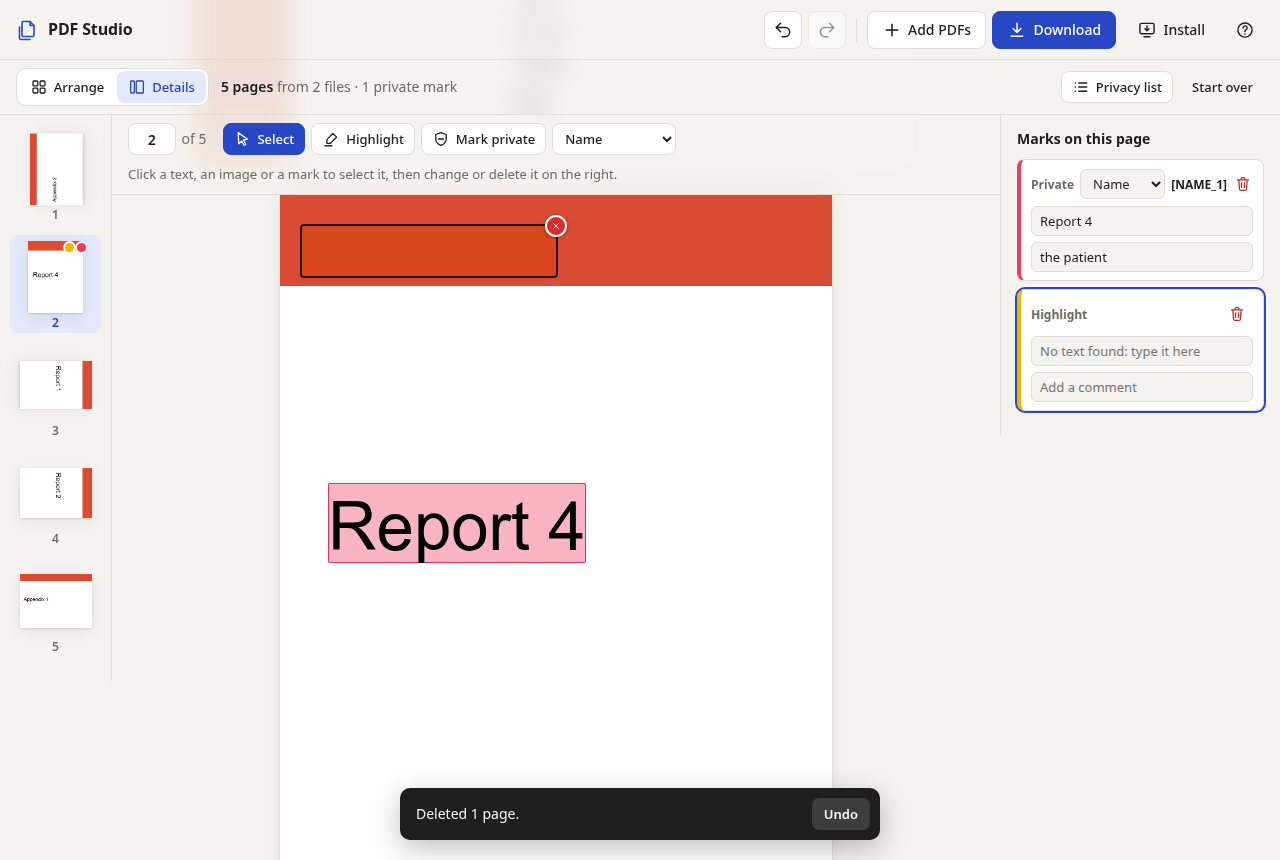
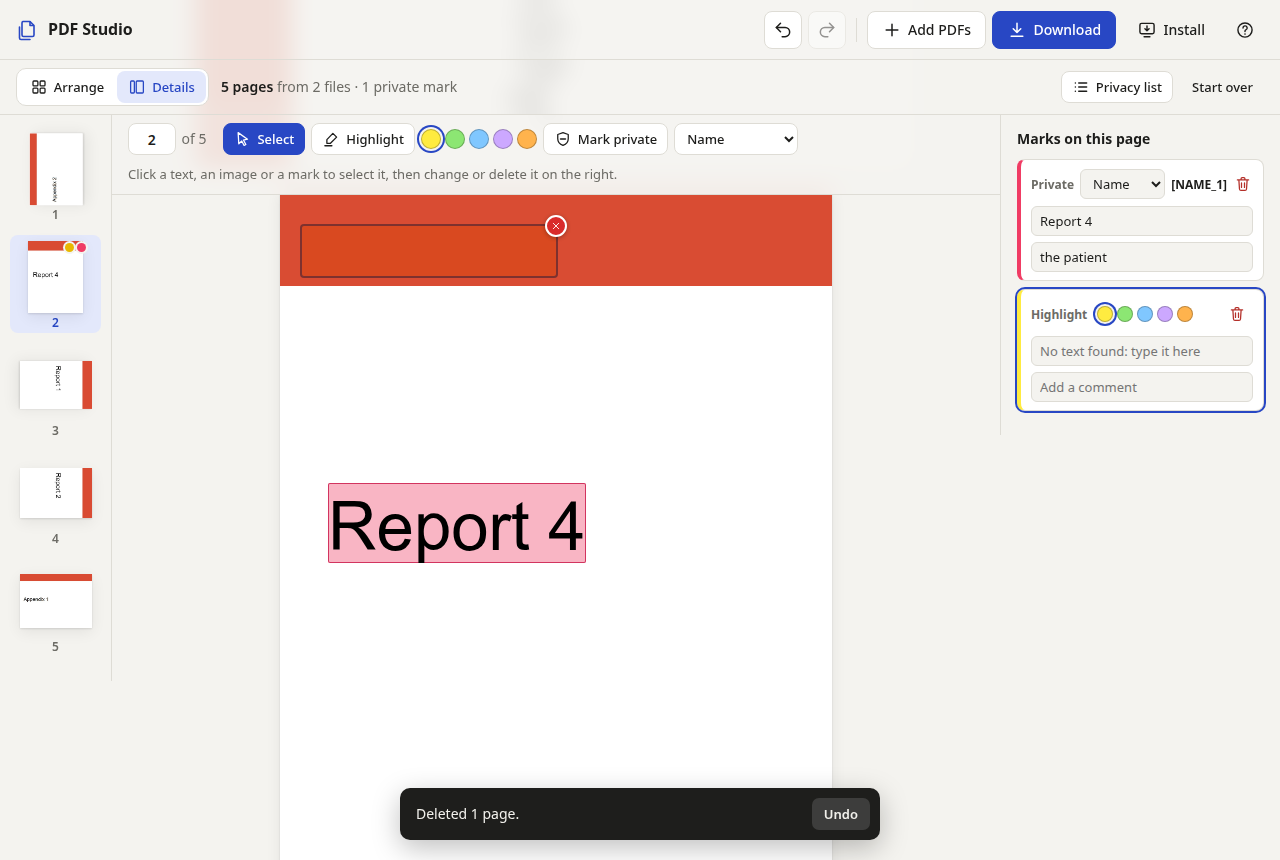
Version 0.2.0; highlight colours
- The app shows its version at the bottom of the keyboard shortcuts
  dialog (src/version.js, checked against package.json by a test).
- Highlights can be yellow, green, blue, purple or orange: pick the
  colour for the next highlight in the bar, change it per highlight in
  the list. The colour is written to the annotation's /C.

Changed region(s): [[0.3125, 0.1512, 0.5625, 0.1814], [0.8438, 0.3326, 0.9375, 0.393], [0.4062, 0.3023, 0.4375, 0.3326]]

diff --git a/src/app.js b/src/app.js
@@ -1,10 +1,11 @@
 // The editor: page grid, selection, drag and drop, keyboard, undo, upload and download.
 
-import { CATEGORIES, categoryOf, countPrivate, placeholders, privacyReport, textInRect } from "./annotations.js";
+import { CATEGORIES, HIGHLIGHT_COLORS, categoryOf, colorOf, countPrivate, placeholders, privacyReport, textInRect } from "./annotations.js";
 import {
   History, addMark, editText, erase, insert, move, newMarkId, normalizeRotation, pagesOf, remove, removeMark, rotate, updateMark,
 } from "./model.js";
 import { setupInstall } from "./install.js";
+import { VERSION } from "./version.js";
 import { PreviewRenderer, drawPage, openPreviewDocument, pageText } from "./thumbnails.js";
 import { PdfWorker } from "./worker-client.js";
 
@@ -69,6 +70,7 @@ const state = {
   view: "arrange", // "arrange" | "details"
   detailId: null, // the page shown in the details view
   tool: "select", // "select" | "highlight" | "private"
+  highlightColor: HIGHLIGHT_COLORS[0].id, // for the next highlight
   picked: null, // objects picked with the select tool: { pageId, ids }
   markId: null, // the mark picked in the details view
 };
@@ -309,6 +311,29 @@ async function loadPreview(card) {
 // ---------------------------------------------------------------------------------------------
 // Marks on thumbnails
 
+const cssColor = (id) => `rgb(${colorOf(id).rgb.map((n) => Math.round(n * 255)).join(" ")})`;
+
+/** A row of colour buttons; `current` is pressed, `choose(id)` is called on a click. */
+function swatches(current, choose, label) {
+  const group = document.createElement("div");
+  group.className = "swatches";
+  group.setAttribute("role", "group");
+  group.setAttribute("aria-label", label);
+  for (const color of HIGHLIGHT_COLORS) {
+    const button = document.createElement("button");
+    button.type = "button";
+    button.className = "swatch";
+    button.title = color.label;
+    button.setAttribute("aria-label", color.label);
+    button.setAttribute("aria-pressed", String(color.id === colorOf(current).id));
+    button.dataset.color = color.id;
+    button.style.setProperty("--mark", cssColor(color.id));
+    button.addEventListener("click", () => choose(color.id));
+    group.append(button);
+  }
+  return group;
+}
+
 function renderMarks(container, marks = [], currentId = null, withDelete = false) {
   const current = withDelete ? marks.find((mark) => mark.id === currentId) : null;
   const extras = [];
@@ -330,6 +355,7 @@ function renderMarks(container, marks = [], currentId = null, withDelete = false
       mark.rects.map(([u0, v0, u1, v1]) => {
         const box = document.createElement("div");
         box.className = `mark ${mark.kind}${mark.id === currentId ? " is-current" : ""}`;
+        if (mark.kind === "highlight") box.style.setProperty("--mark", cssColor(mark.color));
         box.dataset.mark = mark.id;
         box.style.cssText = `left:${u0 * 100}%;top:${v0 * 100}%;width:${(u1 - u0) * 100}%;height:${(v1 - v0) * 100}%`;
         return box;
@@ -1223,6 +1249,12 @@ function renderMarkList(page) {
       const label = document.createElement("span");
       label.textContent = mark.kind === "private" ? "Private" : "Highlight";
       head.append(label);
+      if (mark.kind === "highlight") {
+        row.style.setProperty("--mark", cssColor(mark.color));
+        head.append(
+          swatches(mark.color, (color) => commit(updateMark(pages(), page.id, mark.id, { color }), { animate: false }), "Colour of this highlight"),
+        );
+      }
       if (mark.kind === "private") {
         const select = document.createElement("select");
         select.setAttribute("aria-label", "Category");
@@ -1750,7 +1782,9 @@ async function addMarkFromRect(pageId, rect) {
   if (!page || !kind) return;
   const { text, rects } = textInRect(await textOf(page), rect);
   if (indexOf(page.id) < 0) return; // deleted while the text was read
-  const mark = { id: newMarkId(), kind, category: kind === "private" ? ui.category.value : undefined, text, rects };
+  const mark = { id: newMarkId(), kind, text, rects };
+  if (kind === "private") mark.category = ui.category.value;
+  else mark.color = state.highlightColor;
   state.detailId = page.id;
   state.picked = null;
   commit(addMark(pages(), page.id, mark), { animate: false });
@@ -1863,6 +1897,31 @@ ui.clearAll.addEventListener("click", async () => {
   render({ animate: false });
   worker.call("reset");
 });
+
+// Colour of the next highlight, remembered between visits.
+const COLOR_KEY = "pdf-studio:highlight-color";
+try {
+  state.highlightColor = colorOf(localStorage.getItem(COLOR_KEY)).id;
+} catch {}
+function renderToolColors() {
+  $("highlight-colors").replaceChildren(
+    ...swatches(
+      state.highlightColor,
+      (color) => {
+        state.highlightColor = color;
+        try {
+          localStorage.setItem(COLOR_KEY, color);
+        } catch {}
+        renderToolColors();
+        if (state.tool !== "highlight") setTool("highlight");
+      },
+      "",
+    ).children,
+  );
+}
+renderToolColors();
+
+for (const element of document.querySelectorAll("[data-version]")) element.textContent = `Version ${VERSION}`;
 
 const SIZE_KEY = "pdf-studio:thumb-size";
 function applyThumbSize(value) {

diff --git a/src/styles.css b/src/styles.css
@@ -488,11 +488,12 @@ body[data-view="details"] #size-control { display: none; }
 .mark {
   position: absolute;
   border-radius: 2px;
-  background: rgb(255 214 0 / 0.42);
+  background: var(--mark, rgb(255 235 64));
+  opacity: 0.5;
   mix-blend-mode: multiply;
 }
-.mark.private { background: rgb(240 60 100 / 0.38); box-shadow: inset 0 0 0 1px rgb(200 20 70 / 0.8); }
-.mark.is-current { box-shadow: 0 0 0 2px var(--accent); mix-blend-mode: normal; }
+.mark.private { opacity: 1; background: rgb(240 60 100 / 0.38); box-shadow: inset 0 0 0 1px rgb(200 20 70 / 0.8); }
+.mark.is-current { box-shadow: 0 0 0 2px var(--accent); }
 .page-flags { position: absolute; top: -4px; right: -4px; display: flex; gap: 3px; pointer-events: none; }
 .page-flags span {
   display: inline-flex; align-items: center; gap: 3px;
@@ -707,3 +708,19 @@ body.dragging .film-delete { opacity: 0; }
 .menu button:hover, .menu button:focus-visible { background: var(--surface-2); outline: none; }
 .menu button.danger { color: var(--danger); }
 .menu button.danger:hover, .menu button.danger:focus-visible { background: var(--danger-soft); }
+
+/* Highlight colours */
+
+.swatches { display: flex; align-items: center; gap: 4px; }
+.swatch {
+  width: 20px; height: 20px; padding: 0;
+  border: 1px solid rgb(0 0 0 / 0.25); border-radius: 50%;
+  background: var(--mark);
+  cursor: pointer;
+}
+.swatch[aria-pressed="true"] { box-shadow: 0 0 0 2px var(--bg), 0 0 0 4px var(--accent); }
+.swatch:focus-visible { outline: 2px solid var(--accent); outline-offset: 3px; }
+.mark-row .swatches { margin-left: 4px; }
+.mark-row .swatch { width: 16px; height: 16px; }
+.mark-row:not(.private) { border-left-color: var(--mark, #e8b800); }
+.hint.version { margin-top: 8px; font-variant-numeric: tabular-nums; }

diff --git a/index.html b/index.html
@@ -141,6 +141,7 @@
             <button type="button" class="button small tool" id="tool-highlight" aria-pressed="false" title="Highlight: drag over text (H)">
               <svg aria-hidden="true"><use href="#i-highlight"/></svg><span class="label">Highlight</span>
             </button>
+            <div class="swatches" id="highlight-colors" role="group" aria-label="Colour of the next highlight"></div>
             <button type="button" class="button small tool private" id="tool-private" aria-pressed="false" title="Mark as private: drag over a name or other personal data (P)">
               <svg aria-hidden="true"><use href="#i-shield"/></svg><span class="label">Mark private</span>
             </button>
@@ -230,6 +231,7 @@
         <dt>Details: <kbd>R</kbd> / <kbd>Shift</kbd> + <kbd>R</kbd></dt><dd>Rotate the page right / left</dd>
       </dl>
       <p class="hint">In the Details view, drag over text with the Highlight or Mark private tool. Private marks are saved in the PDF as annotations that pseudonymizing tools can find, and the Privacy list button saves them as JSON. With the mouse: drag pages to reorder them. <kbd>Ctrl</kbd>-click or <kbd>Shift</kbd>-click selects several. On a touch screen, tap to select and press and hold to drag.</p>
+      <p class="hint version" data-version></p>
     </form>
   </dialog>
 </body>

diff --git a/src/annotations.js b/src/annotations.js
@@ -5,6 +5,7 @@
 //   kind      "highlight" | "private"
 //   category  for private marks: one of CATEGORIES
 //   text      the text under the mark (may be empty on scanned pages; the user can edit it)
+//   color     for highlights: one of HIGHLIGHT_COLORS (default: the first)
 //   comment   optional note by the user (why it is marked, what to do with it)
 //   rects     one or more [u0, v0, u1, v1] boxes, as fractions (0…1) of the page as it is drawn
 //             with its own /Rotate applied, origin top left. Fractions keep the marks valid at
@@ -22,6 +23,16 @@ export const CATEGORIES = [
 ];
 
 export const categoryOf = (id) => CATEGORIES.find((category) => category.id === id) ?? CATEGORIES[CATEGORIES.length - 1];
+
+export const HIGHLIGHT_COLORS = [
+  { id: "yellow", label: "Yellow", rgb: [1, 0.92, 0.25] },
+  { id: "green", label: "Green", rgb: [0.55, 0.9, 0.45] },
+  { id: "blue", label: "Blue", rgb: [0.5, 0.78, 1] },
+  { id: "purple", label: "Purple", rgb: [0.8, 0.66, 1] },
+  { id: "orange", label: "Orange", rgb: [1, 0.7, 0.3] },
+];
+
+export const colorOf = (id) => HIGHLIGHT_COLORS.find((color) => color.id === id) ?? HIGHLIGHT_COLORS[0];
 
 export const REPORT_FORMAT = "pdf-studio-privacy/1";
 

diff --git a/tests/annotations.test.js b/tests/annotations.test.js
@@ -56,6 +56,7 @@ function markedPages() {
   };
   add(pages[0], "private", "Jane Doe");
   add(pages[0], "highlight", "important");
+  next = updateMark(next, pages[0].id, next[0].marks[1].id, { color: "green" });
   next = updateMark(next, pages[0].id, next[0].marks[0].id, { comment: "patient" });
   next = updateMark(next, pages[0].id, next[0].marks[1].id, { comment: "check this" });
   add(pages[1], "private", "jane  doe");
@@ -115,6 +116,7 @@ test("assemble writes marks as highlight annotations that tools can read", async
   assert.equal(annot.lookup(PDFName.of("QuadPoints")).size(), 8);
   assert.equal(annot.lookup(PDFName.of("PdfStudio")).get(PDFName.of("Comment")).decodeText(), "patient");
   assert.equal(first[1].get(PDFName.of("Subj")).decodeText(), "Highlight");
+  assert.deepEqual(first[1].lookup(PDFName.of("C")).asArray().map((n) => n.asNumber()), [0.55, 0.9, 0.45]);
   assert.equal(first[1].get(PDFName.of("Contents")).decodeText(), "check this");
   assert.equal(first[1].lookup(PDFName.of("PdfStudio")).get(PDFName.of("Comment")).decodeText(), "check this");
   assert.equal(second[0].lookup(PDFName.of("PdfStudio")).get(PDFName.of("Placeholder")).decodeText(), "[NAME_1]");

diff --git a/src/assemble.js b/src/assemble.js
@@ -21,7 +21,7 @@ import {
   PDFStream,
   degrees,
 } from "../vendor/pdf-lib/pdf-lib.esm.min.js";
-import { categoryOf, placeholders, toPdfRect } from "./annotations.js";
+import { categoryOf, colorOf, placeholders, toPdfRect } from "./annotations.js";
 import { rewritePage } from "./content.js";
 
 export const PRODUCER = "PDF Studio (pdf-lib)";
@@ -109,7 +109,7 @@ export async function assemble(sources, pages) {
   return out.save();
 }
 
-const MARK_COLORS = { highlight: [1, 0.92, 0.25], private: [0.96, 0.3, 0.45] };
+const PRIVATE_COLOR = [0.96, 0.3, 0.45];
 
 /**
  * Writes marks as standard /Highlight annotations: any viewer shows them, and tools read the
@@ -140,7 +140,7 @@ function addMarks(out, page, marks, names, sourcePage) {
       Rect: union,
       // Top-left, top-right, bottom-left, bottom-right: the order viewers actually read.
       QuadPoints: rects.flatMap(([x0, y0, x1, y1]) => [x0, y1, x1, y1, x0, y0, x1, y0]),
-      C: MARK_COLORS[mark.kind] ?? MARK_COLORS.highlight,
+      C: mark.kind === "private" ? PRIVATE_COLOR : colorOf(mark.color).rgb,
       CA: isPrivate ? 0.55 : 0.5,
       F: 4,
     });

diff --git a/scripts/browser-test.js b/scripts/browser-test.js
@@ -231,6 +231,11 @@ try {
   await drag([0.04, 0.05], [0.5, 0.12]); // the coloured band, no text
   await page.waitForSelector(".mark-row.is-current:not(.private)");
   assert.equal(await page.locator(".mark-row").count(), 2);
+  await page.locator('.mark-row:not(.private) .swatch[data-color="green"]').click();
+  assert.equal(await page.evaluate(() => window.pdfStudio.pages()[1].marks[1].color), "green");
+  await page.keyboard.press("Control+z");
+  assert.equal(await page.evaluate(() => window.pdfStudio.pages()[1].marks[1].color), "yellow");
+  assert.match(await page.locator("#shortcuts [data-version]").textContent(), /^Version \d+\.\d+\.\d+$/);
   await page.locator(".mark-row.private select").selectOption("address");
   assert.match(await page.locator(".mark-row .token").first().textContent(), /\[ADDRESS_1\]/);
   await page.locator(".mark-row.private select").selectOption("name");

diff --git a/tests/manifest.test.js b/tests/manifest.test.js
@@ -33,3 +33,10 @@ test("index.html only references files that exist", () => {
   assert.ok(refs.length > 3);
   for (const ref of refs) assert.ok(existsSync(join(ROOT, ref)), `${ref} referenced but missing`);
 });
+
+test("the version shown in the app is the one in package.json", async () => {
+  const { VERSION } = await import("../src/version.js");
+  const { readFileSync } = await import("node:fs");
+  const packageJson = JSON.parse(readFileSync(new URL("../package.json", import.meta.url), "utf8"));
+  assert.equal(VERSION, packageJson.version);
+});

diff --git a/asset-manifest.js b/asset-manifest.js
@@ -1,6 +1,6 @@
 // Generated by scripts/build-manifest.js; do not edit by hand.
 self.ASSET_MANIFEST = {
-  "version": "40865b9e0758",
+  "version": "cf422414fb08",
   "urls": [
     "./",
     "./index.html",
@@ -19,6 +19,7 @@ self.ASSET_MANIFEST = {
     "./src/pdf-worker.js",
     "./src/styles.css",
     "./src/thumbnails.js",
+    "./src/version.js",
     "./src/worker-client.js",
     "./vendor/pdf-lib/pdf-lib.esm.min.js",
     "./vendor/pdfjs/cmaps/78-EUC-H.bcmap",

diff --git a/src/version.js b/src/version.js
@@ -1,0 +1,3 @@
+// The version shown in the app. Keep it equal to "version" in package.json
+// (`npm version <new> --no-git-tag-version`, then change it here; tests/manifest.test.js checks).
+export const VERSION = "0.2.0";

diff --git a/README.md b/README.md
@@ -13,7 +13,7 @@ After the first visit it works offline, and it can be installed as an app.
 - **Rotate** left or right, **delete** pages; every page shows where it comes from.
 - **Details view**: one page large, with a strip of all pages to go through them (arrow keys,
   <kbd>D</kbd> / <kbd>G</kbd> switch between *Details* and *Arrange*).
-- **Highlight** text, and **mark private parts** (names, addresses, contact data, numbers) by
+- **Highlight** text in five colours, and **mark private parts** (names, addresses, contact data, numbers) by
   dragging over them. See [Privacy marks](#privacy-marks).
 - **Select objects** in the Details view and change or delete them: text, images, annotations
   the PDF came with, and your own marks. See [Changing and deleting objects](#changing-and-deleting-objects).
